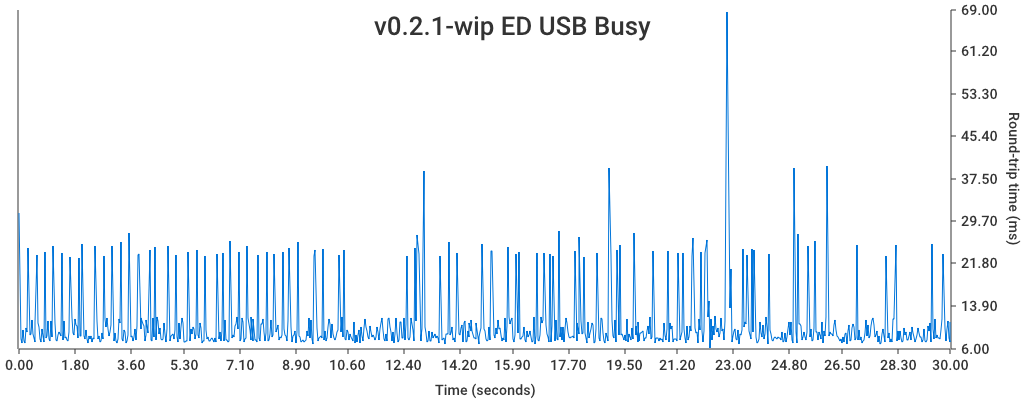
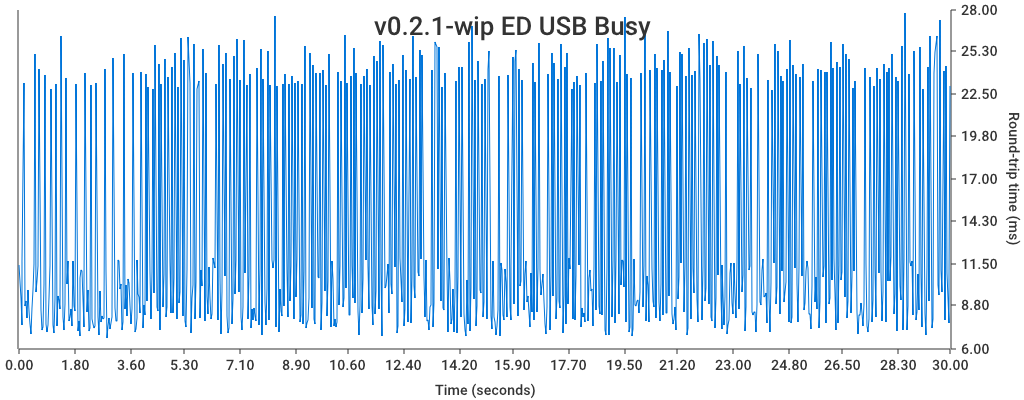
Add all diagrams

diff --git a/README.md b/README.md
@@ -87,18 +87,26 @@ Total Ping+Pong Data Size = 12 bytes
 
 ## Results
 
-### v0.1.0
+Below are the results of performance tests ran against versions of the [Mega Drive MIDI Interface](https://github.com/rhargreaves/mega-drive-midi-interface)
 
-![v0.1.0 - Idle](results/v0.1.0/idle.png)
+### Current Version - v0.2.1
 
-![v0.1.0 - Idle, No UI](results/v0.1.0/no_ui.png)
+![v0.2.1 - Busy, EverDrive USB](results/v0.2.1-wip/ED-ui-busy-6-new-act-map.png)
 
-### v0.1.1-wip
+### Previous Versions
 
-![v0.1.1-wip - Idle, 4800 BPS Serial, No UI](results/v0.1.1-wip/4800_no_ui.png)
-
-### v0.1.1-wip2 / v0.2.0
+#### v0.1.1-wip2 / v0.2.0
 
 ![v0.1.1-wip2 - Idle, 4800 BPS Serial](results/v0.1.1-wip2/SER-4800-ui.png)
 
 ![v0.1.1-wip2 - Idle, EverDrive USB](results/v0.1.1-wip2/ED-ui.png)
+
+#### v0.1.1-wip
+
+![v0.1.1-wip - Idle, 4800 BPS Serial, No UI](results/v0.1.1-wip/4800_no_ui.png)
+
+#### v0.1.0
+
+![v0.1.0 - Idle](results/v0.1.0/idle.png)
+
+![v0.1.0 - Idle, No UI](results/v0.1.0/no_ui.png)
